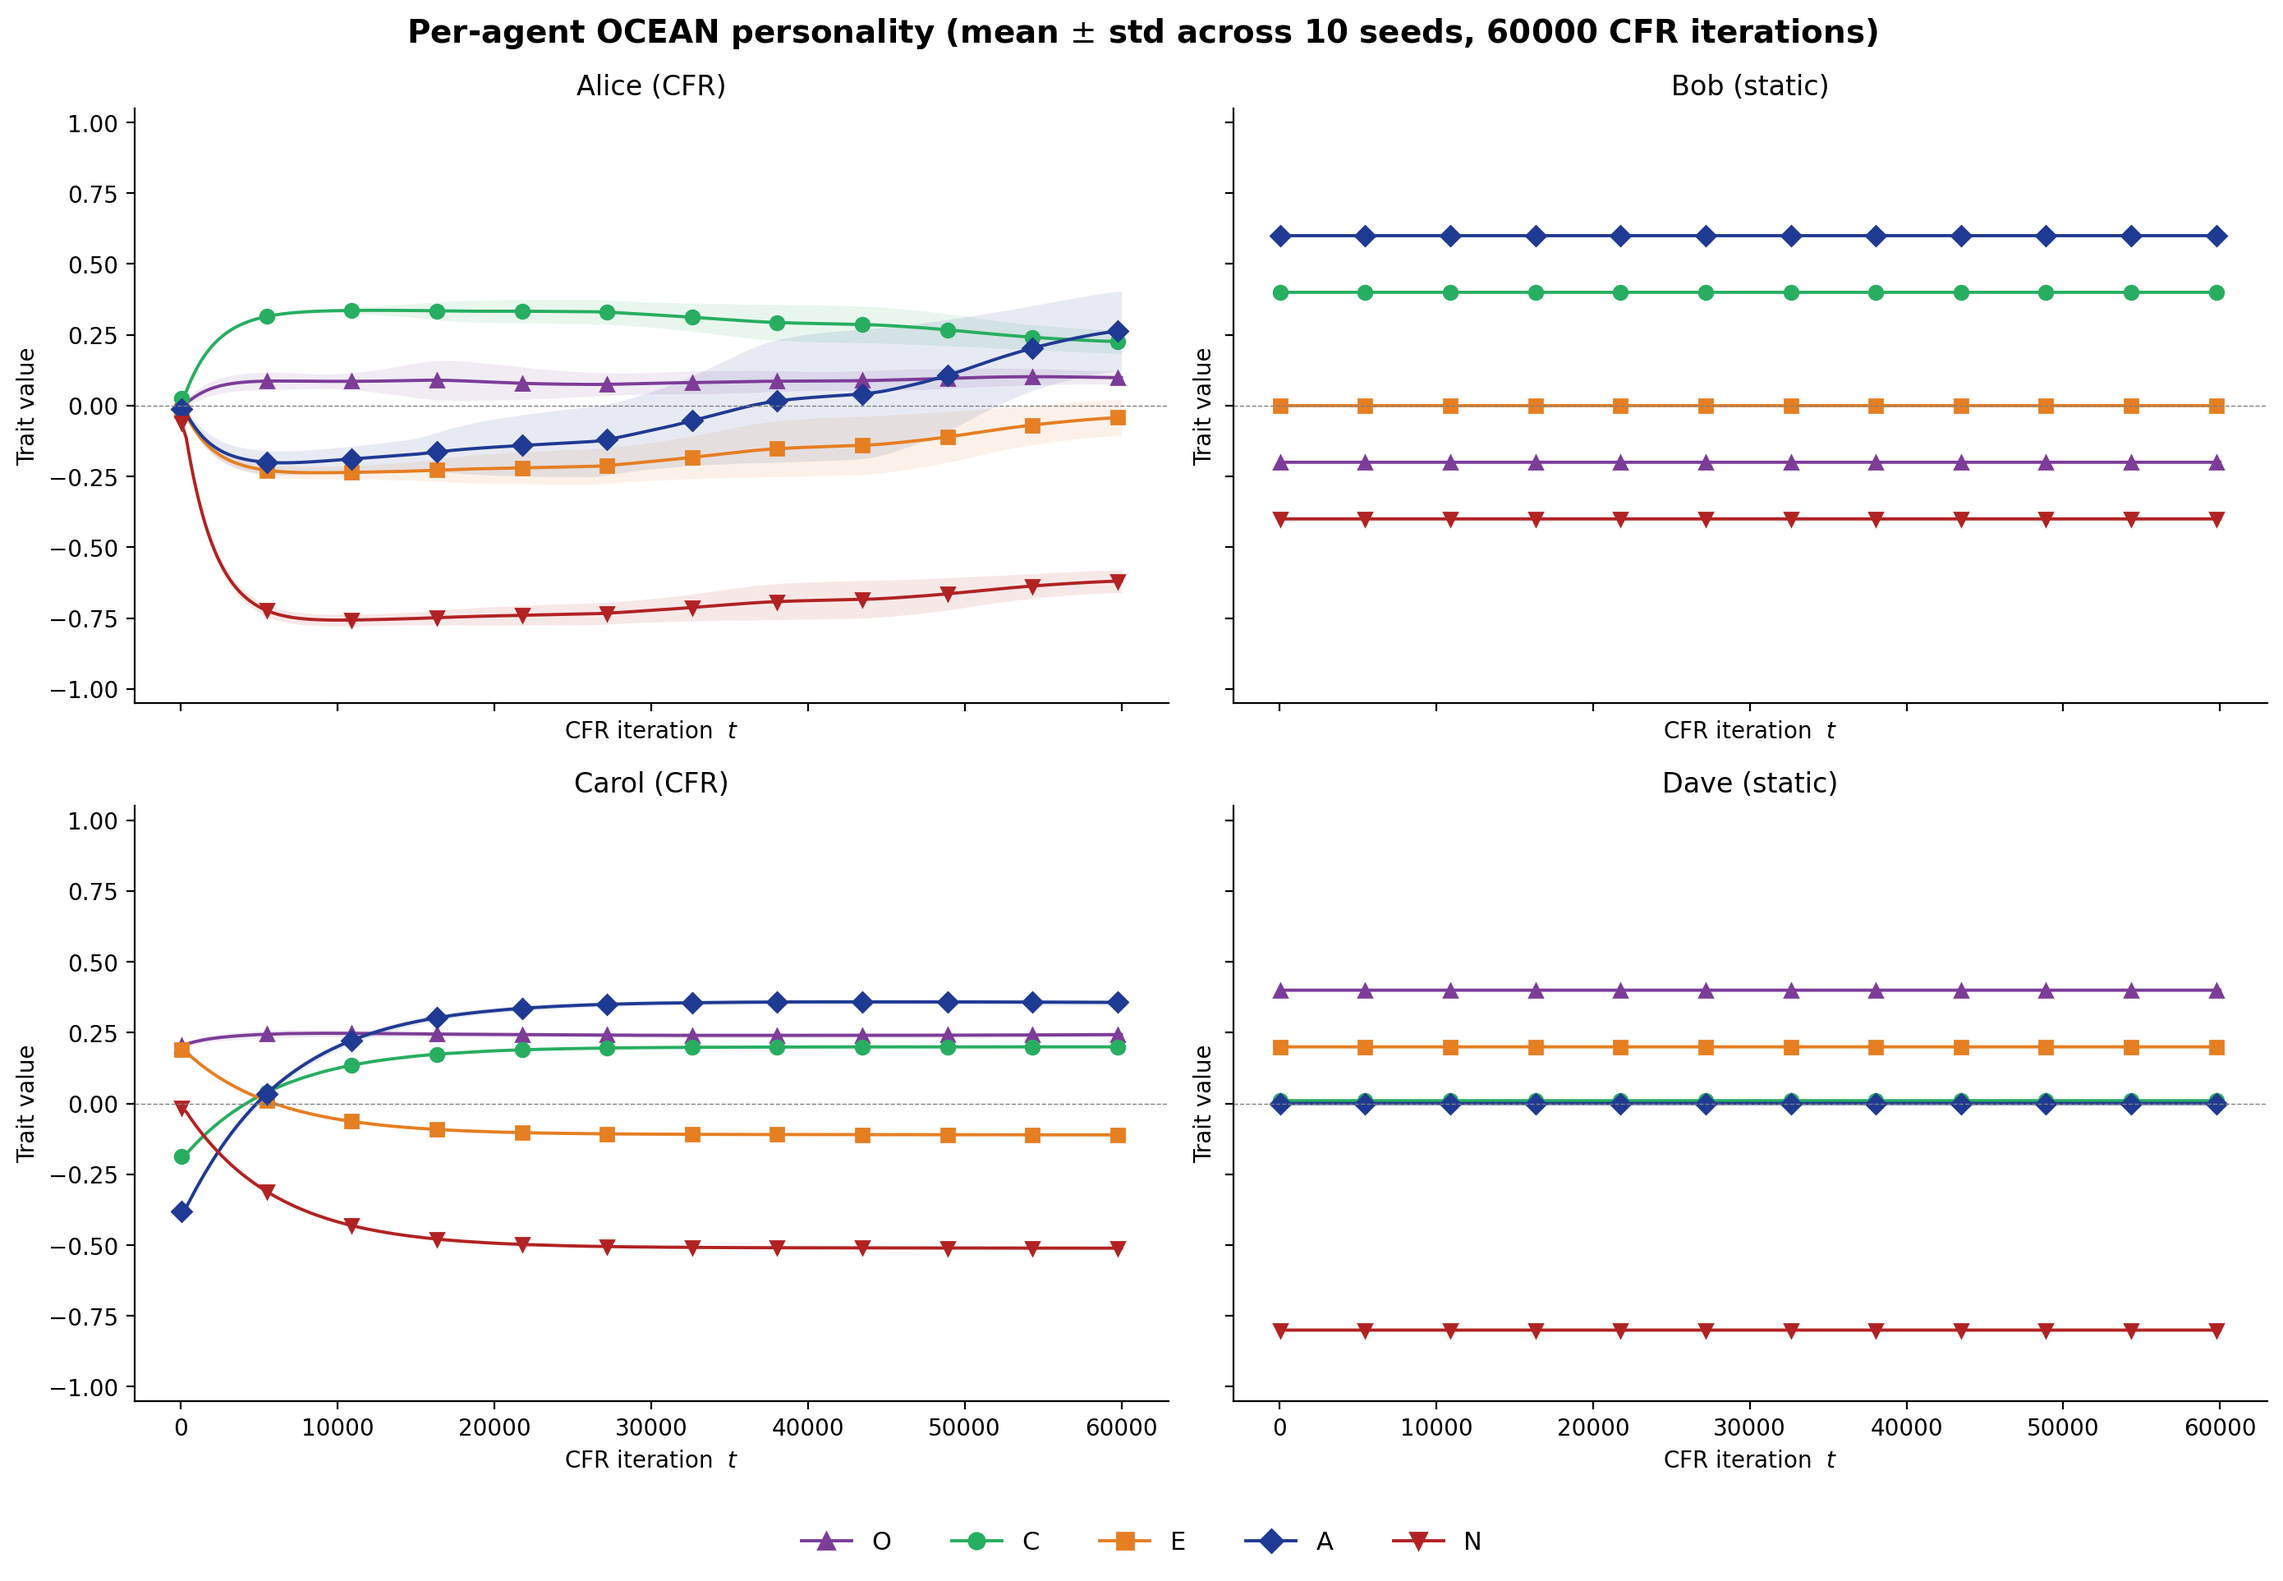
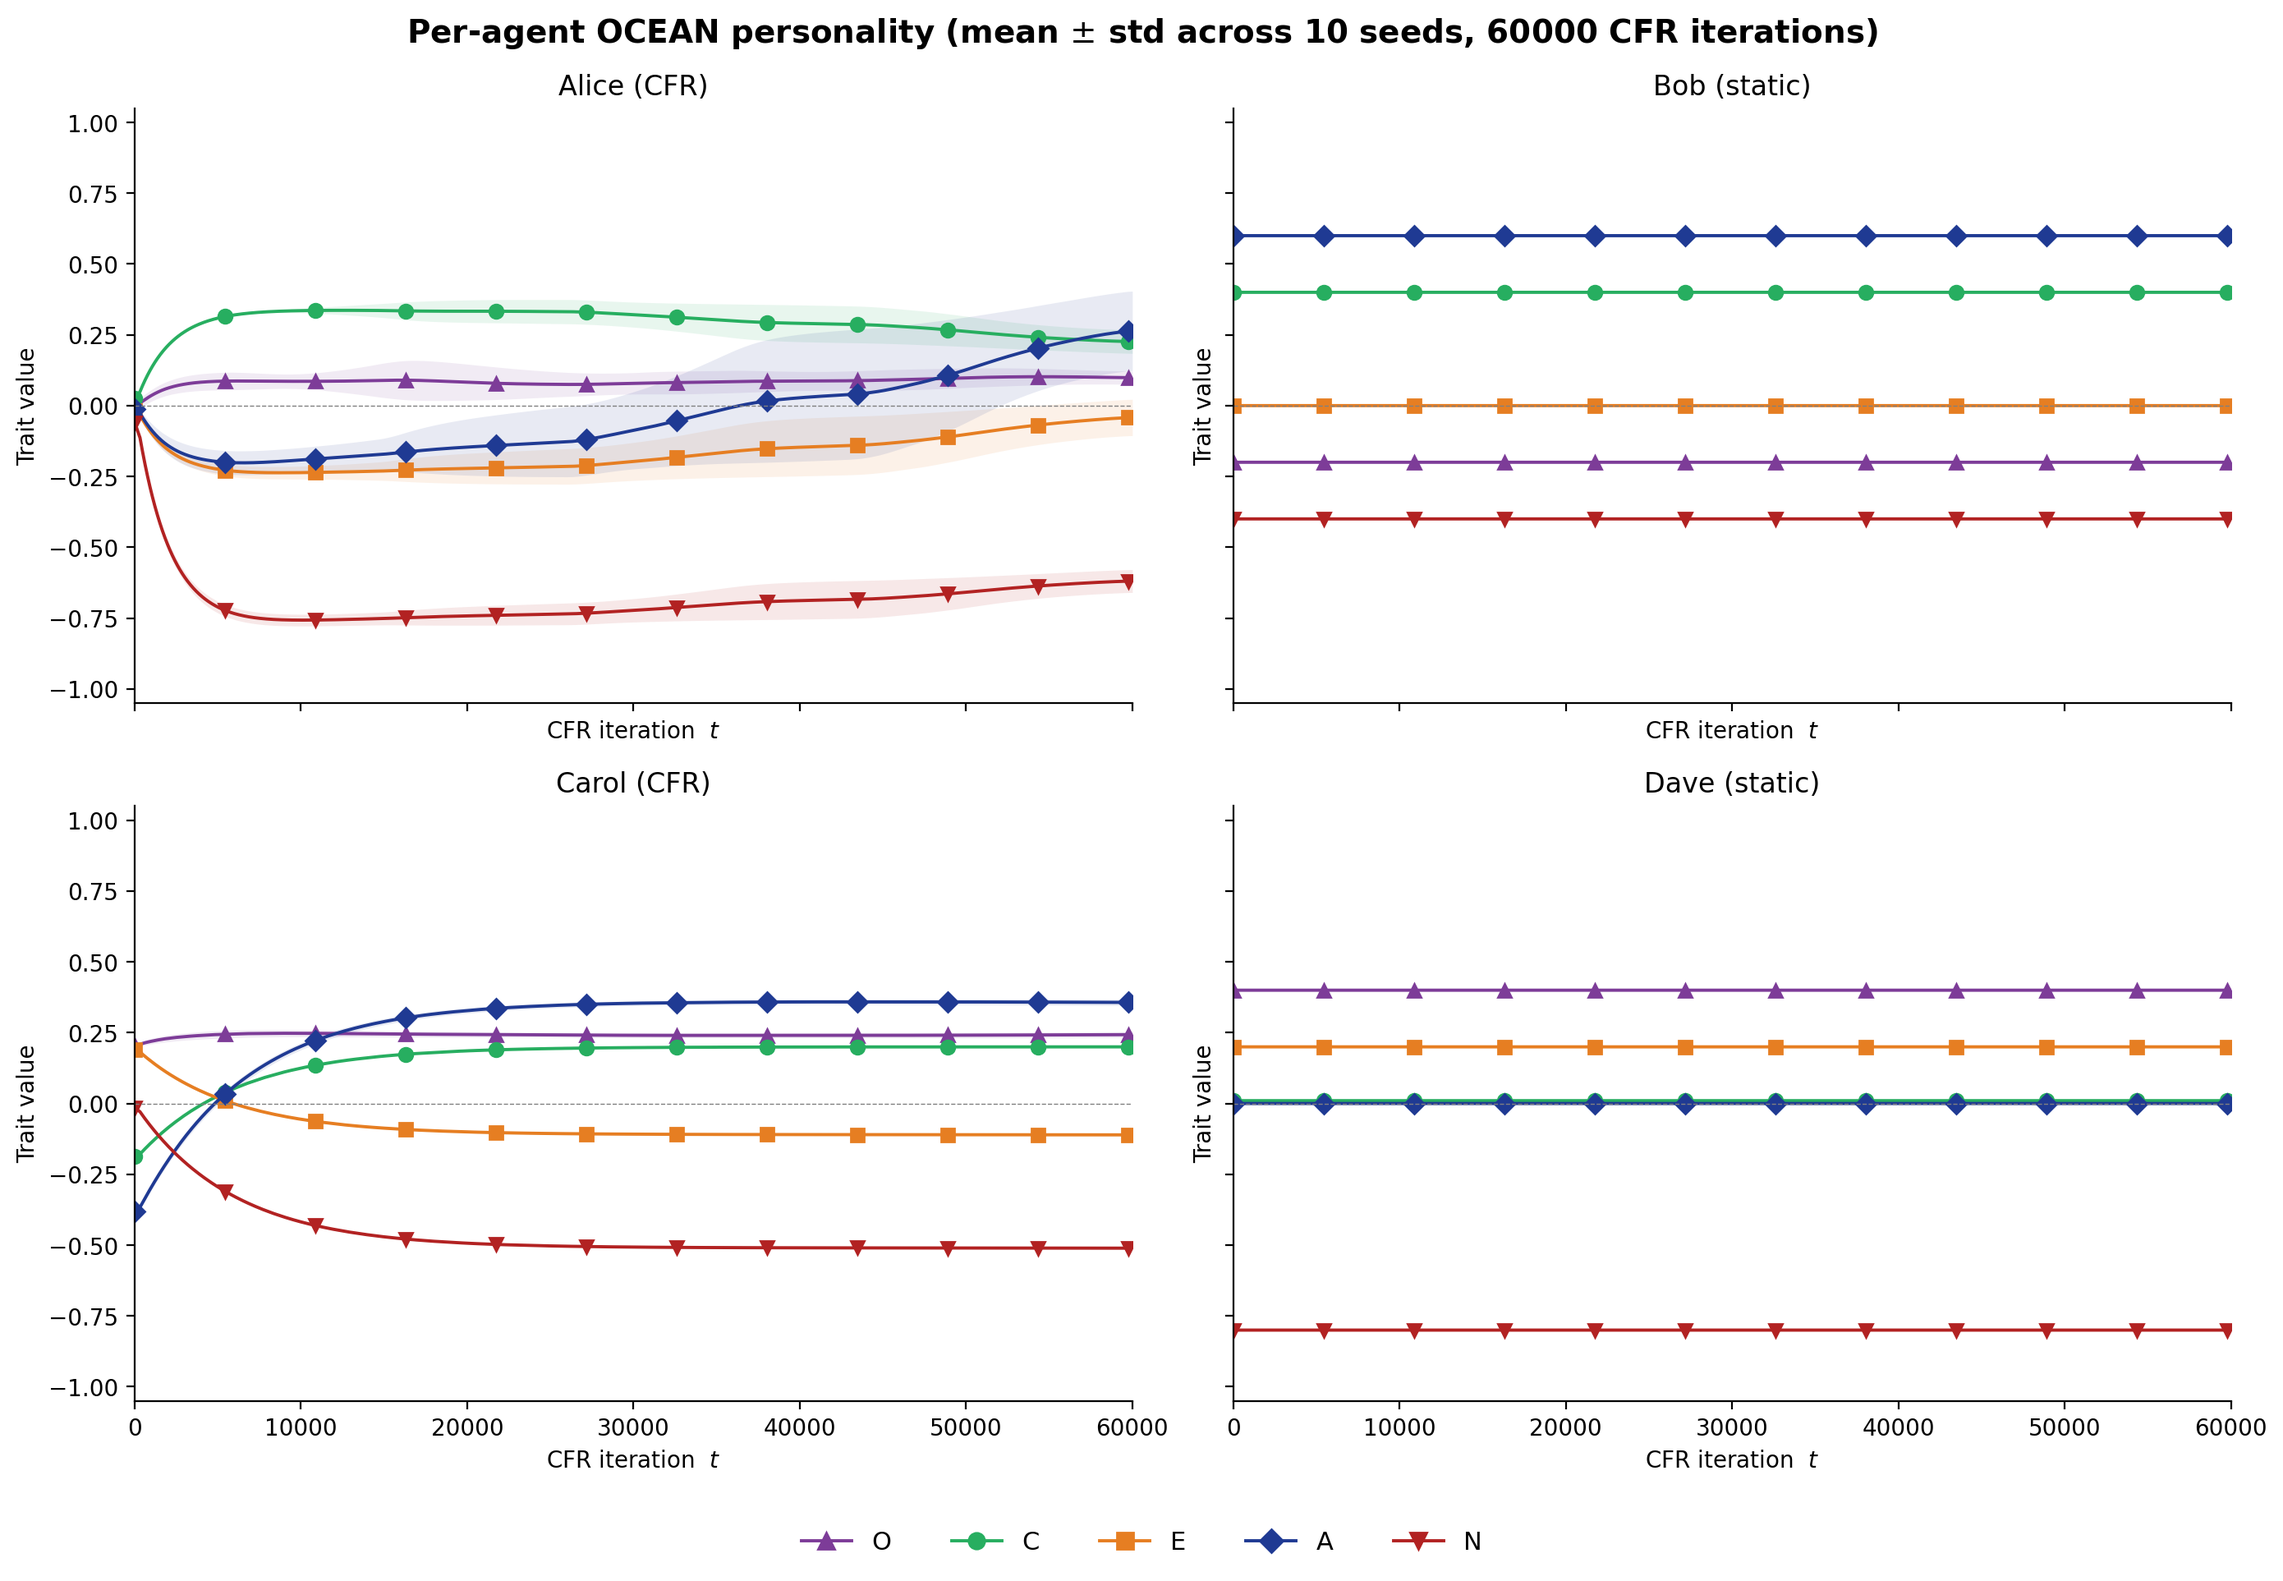
init commit

diff --git a/scripts/mood_vs_personality.py b/scripts/mood_vs_personality.py
@@ -148,6 +148,7 @@ def main():
         ax_pers.fill_between(x, m - sd, m + sd, color=c, alpha=0.10, linewidth=0)
 
     ax_pers.axhline(0.0, color="grey", linewidth=0.5, linestyle="--")
+    ax_pers.set_xlim(0, x[-1])
     ax_pers.set_ylabel("Trait value")
     ax_pers.set_ylim(-1.05, 1.05)
     ax_pers.set_title("Personality (OCEAN) — updated once per episode via CFR gradient",
@@ -173,6 +174,7 @@ def main():
         ax_mood.fill_between(x, m - sd, m + sd, color=c, alpha=0.15, linewidth=0)
 
     ax_mood.axhline(0.0, color="grey", linewidth=0.5, linestyle="--")
+    ax_mood.set_xlim(0, x[-1])
     ax_mood.set_ylabel("Trait value")
     ax_mood.set_xlabel(r"CFR iteration  $t$")
     ax_mood.set_ylim(-1.05, 1.05)

diff --git a/scripts/agent_personality_plot_overtime.py b/scripts/agent_personality_plot_overtime.py
@@ -121,6 +121,7 @@ def panel_dynamic(ax, per_seed, df_key, col_for, grid, title):
     ax.axhline(0.0, color="grey", linewidth=0.5, linestyle="--")
     ax.set_xlabel(r"CFR iteration  $t$")
     ax.set_ylabel("Trait value")
+    ax.set_xlim(0, x[-1])
     ax.set_ylim(-1.05, 1.05)
     ax.set_title(title, fontsize=12)
     style_ax(ax)
@@ -140,6 +141,7 @@ def panel_static(ax, stance, grid, title):
     ax.axhline(0.0, color="grey", linewidth=0.5, linestyle="--")
     ax.set_xlabel(r"CFR iteration  $t$")
     ax.set_ylabel("Trait value")
+    ax.set_xlim(0, x[-1])
     ax.set_ylim(-1.05, 1.05)
     ax.set_title(title, fontsize=12)
     style_ax(ax)

diff --git a/scripts/regret_per_agent.py b/scripts/regret_per_agent.py
@@ -155,6 +155,7 @@ def main():
             ax.fill_between(panel_grid, m - sd, m + sd,
                             color=color, alpha=0.10, linewidth=0)
         ax.axhline(0.0, color="grey", linewidth=0.5, linestyle="--")
+        ax.set_xlim(0, panel_grid[-1])
         ax.set_xlabel(rf"CFR iteration  $t$  (max {panel_grid[-1]})")
         ax.set_ylabel("Cumulative regret  $R_t(a)$")
         ax.set_title(title, fontsize=12)

diff --git a/scripts/carol_vs_alice_cfr.py b/scripts/carol_vs_alice_cfr.py
@@ -131,6 +131,7 @@ def main():
                         color=color, alpha=0.10, linewidth=0)
 
     ax.axhline(0.0, color="grey", linewidth=0.5, linestyle="--")
+    ax.set_xlim(0, t_grid[-1])
     ax.set_xlabel(rf"CFR iteration  $t$  (max {t_grid[-1]})")
     ax.set_ylabel("Cumulative regret  $R_t(a)$")
     ax.set_title("Carol vs Alice  (CFR)", fontsize=12)
